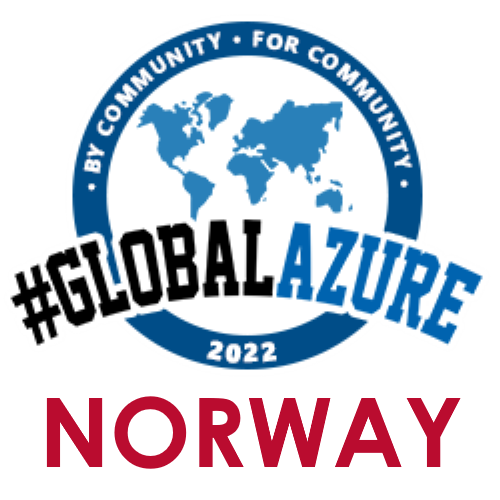
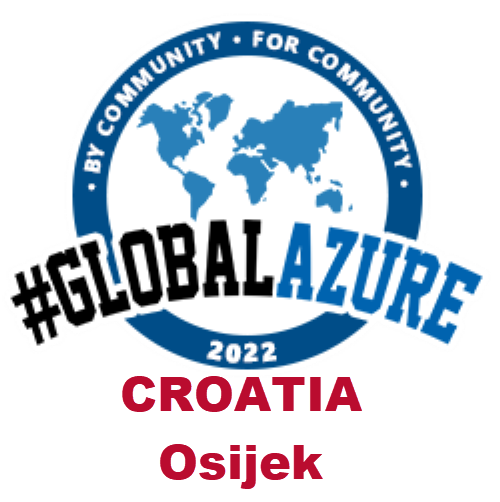
AddOsijekCroatia

diff --git a/2022/GlobalAzureOsijek/index.md b/2022/GlobalAzureOsijek/index.md
@@ -1,0 +1,11 @@
+Global Azure Osijek by IT Pro Community Osijek and IT Pro Community Zagreb
+On May 5th, 2022, we will have hybrid event related to Azure platform. Meet, learn, eat and dring together with IT Community and Azure speakers and freaks.
+
+Tradition to move Azure Global camp throuhg Croatia, continue this year. We will be in Osijek, one of exelent IT community town in Slavonije, Easter part of Croatia. 
+We will show you what is new in Azure, what can you use and if you will have questions, to answer your questions.
+
+You can reach the organizers and get more info at:
+
+E-mail: itpro-hr@mscommunity.hr
+https://www.meetup.com/IT-Pro-User-Group-Zagreb/
+More details coming soon!
